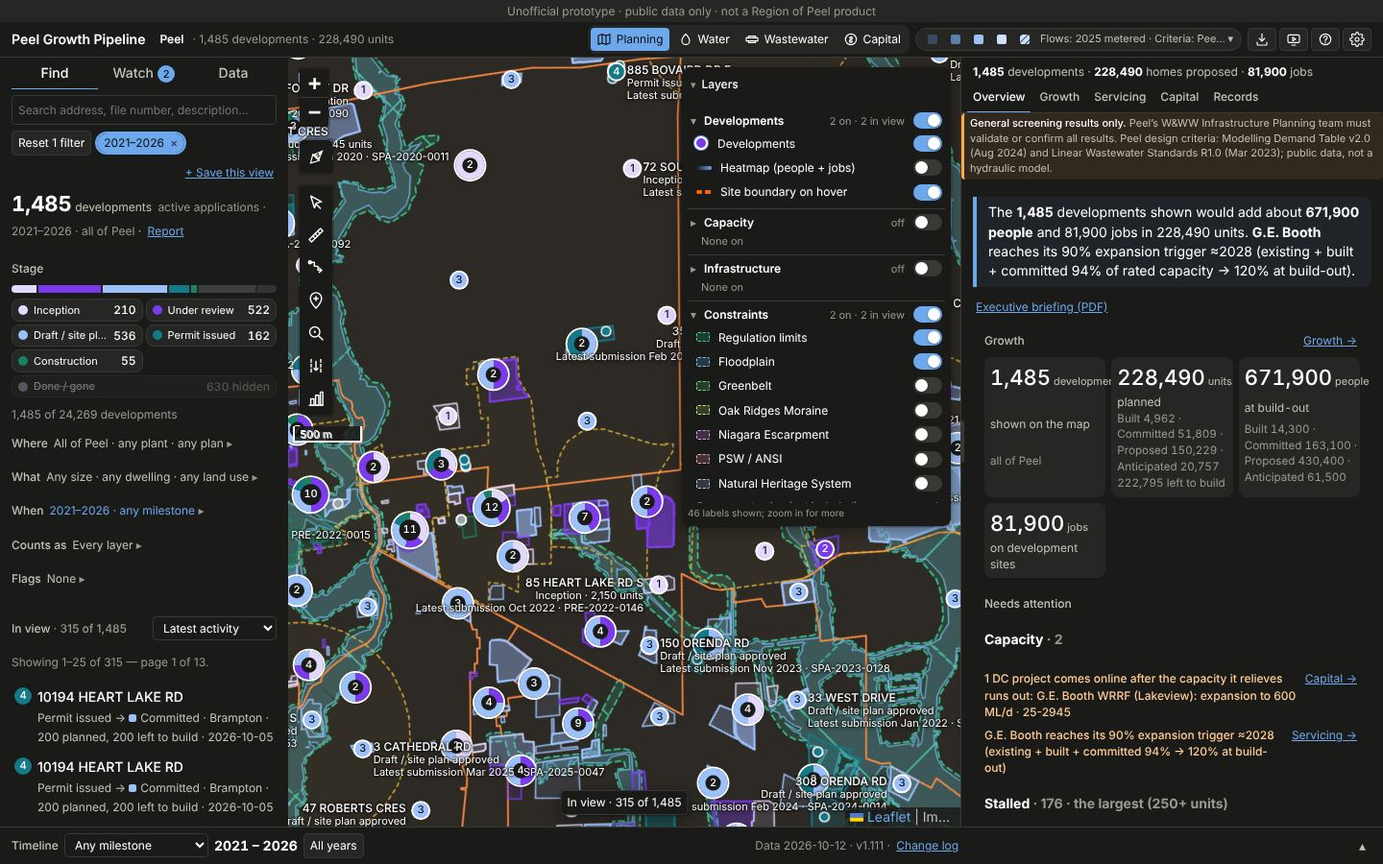
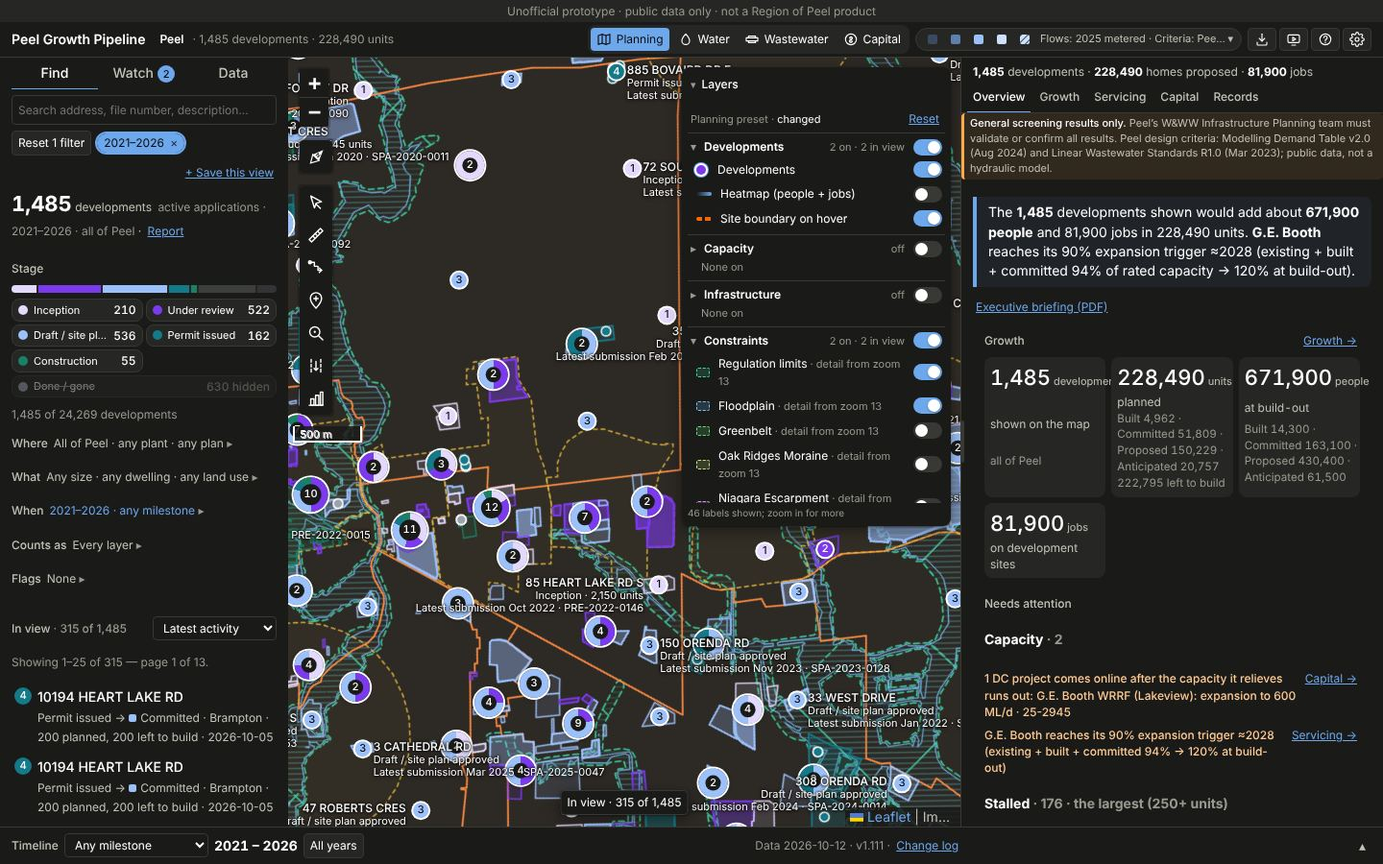
Stage 3 to the Map controls board: zoom stated on each layer, view preset with Reset, DC works marked draft; constraint hover and click at the map level; screenshots retaken
Claude-Session: https://claude.ai/code/session_01E9zDvm6xW3ynJ788gjwVZS

diff --git a/js/layer-groups.js b/js/layer-groups.js
@@ -28,12 +28,16 @@
   const GROUPS = [
     { key: 'devs', label: 'Developments', primary: ['devs'], layers: [['devs', 'Developments', 'devs-toggle', 'dev', null], ['heat', 'Heatmap (people + jobs)', 'map-show', 'heat', null], ['hov', 'Site boundary on hover', 'hover-boundary', 'dash', '--select']] },
     { key: 'cap', label: 'Capacity', primary: ['cap'], layers: [['cap', 'Capacity colours', 'map-capacity', 'cap', null], ['pz', 'Pressure zones', 'pressure-zone', 'svc-pz', null], ['bk', 'Wastewater blocks', 'blocks', 'block', null], ['dr', 'Drainage areas', 'drainage-area', 'svc-dr', null]] },
-    { key: 'infra', label: 'Infrastructure', primary: ['ex-water', 'ex-sanitary'], layers: [['ex-water', 'Existing watermains', 'existing-pipes', 'line', '--pipe-water'], ['ex-sanitary', 'Existing sanitary sewers', 'existing-pipes', 'line', '--pipe-sanitary'], ['ex-storm', 'Existing storm sewers', 'existing-pipes', 'line', '--pipe-storm'], ['wf', 'Water facilities', 'water-facilities', 'wf', null], ['dcw', 'Planned DC works', 'dc-works', 'line', '--dc-ww-main'], ['gas', 'Gas pipelines (approximate)', 'cx-gas', 'dash', '--cx-gas'], ['hydro', 'Hydro lines (approximate)', 'cx-hydro', 'line', '--cx-hydro']], sub: { gas: 'Other utilities' } },
+    { key: 'infra', label: 'Infrastructure', primary: ['ex-water', 'ex-sanitary'], layers: [['ex-water', 'Existing watermains', 'existing-pipes', 'line', '--pipe-water'], ['ex-sanitary', 'Existing sanitary sewers', 'existing-pipes', 'line', '--pipe-sanitary'], ['ex-storm', 'Existing storm sewers', 'existing-pipes', 'line', '--pipe-storm'], ['wf', 'Water facilities', 'water-facilities', 'wf', null], ['dcw', 'Planned DC works · 2026 draft', 'dc-works', 'line', '--dc-ww-main'], ['gas', 'Gas pipelines (approximate)', 'cx-gas', 'dash', '--cx-gas'], ['hydro', 'Hydro lines (approximate)', 'cx-hydro', 'line', '--cx-hydro']], sub: { gas: 'Other utilities' } },
     { key: 'cx', label: 'Constraints', primary: ['reg', 'flood'], layers: [['reg', 'Regulation limits', 'cx-reg', 'area', '--cx-reg'], ['flood', 'Floodplain', 'cx-flood', 'area', '--cx-flood'], ['greenbelt', 'Greenbelt', 'cx-greenbelt', 'area', '--cx-greenbelt'], ['orm', 'Oak Ridges Moraine', 'cx-orm', 'area', '--cx-orm'], ['nep', 'Niagara Escarpment', 'cx-nep', 'area', '--cx-nep'], ['natural', 'PSW / ANSI', 'cx-natural', 'area', '--cx-natural'], ['nhs', 'Natural Heritage System', 'cx-nhs', 'area', '--cx-nhs'], ['source', 'Source protection (not included)', 'site-constraints', 'none', null], ['water', 'Watercourses', 'cx-water', 'line', '--cx-water']], disabled: { source: 'Not included in this app: see the CTC Source Protection Region maps' } },
     { key: 'plan', label: 'Planning context', primary: ['sp', 'mtsa'], layers: [['sp', 'Secondary plans / character areas', 'secondary-plans', 'dash', '--area-sp'], ['pr', 'Precincts', 'secondary-plans', 'dash', '--area-pr'], ['mtsa', 'MTSAs', 'mtsa', 'dash', '--area-mtsa'], ['da', '2021 census areas', 'da-layer', 'da', null]] },
     { key: 'base', label: 'Base map', primary: [], layers: [['hill', 'Lidar hillshade', 'hillshade', 'area', '--text-muted']] },
   ];
-  const LAYER = new Map(GROUPS.flatMap(g => g.layers.map(([key, label, info, sw, color]) => [key, { key, label, info, sw, color, group: g.key, disabled: (g.disabled || {})[key] || null }])));
+  // The zoom each layer shows from, stated on the layer (SPEC §4: "Existing pipes · from zoom 15").
+  // Constraint areas show everywhere (a coarse overview), in detail from zoom 13.
+  const ZOOM = { 'ex-water': [15], 'ex-sanitary': [15], 'ex-storm': [15], gas: [11], hydro: [11], water: [12], hill: [11], reg: [13, 'detail'], flood: [13, 'detail'], greenbelt: [13, 'detail'], orm: [13, 'detail'], nep: [13, 'detail'], natural: [13, 'detail'], nhs: [13, 'detail'] };
+  const zoomText = k => { const z = ZOOM[k]; return z ? (z[1] ? `detail from zoom ${z[0]}` : `from zoom ${z[0]}`) : ''; };
+  const LAYER = new Map(GROUPS.flatMap(g => g.layers.map(([key, label, info, sw, color]) => [key, { key, label, info, sw, color, group: g.key, disabled: (g.disabled || {})[key] || null, zoom: ZOOM[key] ? ZOOM[key][0] : null, zoomText: zoomText(key) }])));
   const KEYS = [...LAYER.keys()];
   const groupOf = k => (LAYER.get(k) || {}).group || null;
 
@@ -98,14 +102,17 @@
   // ---- The panel ----------------------------------------------------------------------------------------
   const esc = s => String(s == null ? '' : s).replace(/[&<>"']/g, c => ({ '&': '&amp;', '<': '&lt;', '>': '&gt;', '"': '&quot;', "'": '&#39;' }[c]));
   // swatch(layer) → HTML; extra[groupKey] → HTML after the group's switches (selects, notes).
-  function panelHTML({ on, open, inView, swatch = () => '', extra = {} }) {
-    return GROUPS.map(g => {
+  // The view's preset, as the board draws it: "Wastewater preset · Reset" (changed or not).
+  const presetLine = (viewLabel, changed) => `<div class="lg-preset" id="lg-preset"><span>${esc(viewLabel)} preset${changed ? ' · <em>changed</em>' : ''}</span>${changed ? '<button type="button" class="btn small link" data-lg-reset>Reset</button>' : ''}</div>`;
+  const sameSet = (a, b) => a.size === b.size && [...a].every(k => b.has(k));
+  function panelHTML({ on, open, inView, swatch = () => '', extra = {}, view = null }) {
+    return (view ? presetLine(view.label, !sameSet(on, presetFor(view.key))) : '') + GROUPS.map(g => {
       const isOpen = open.has(g.key), gOn = groupOn(g, on);
       const rows = g.layers.map(([k]) => {
         const L0 = LAYER.get(k), sub = (g.sub || {})[k];
         const row = L0.disabled
           ? `<div class="mo-sw lg-off" data-info="${esc(L0.info)}" title="${esc(L0.disabled)}"><span class="mo-sw-l">${esc(L0.label)}</span><small class="muted">n/a</small></div>`
-          : `<label class="mo-sw" data-info="${esc(L0.info)}"><span class="mo-sw-l">${swatch(L0)}${esc(L0.label)}</span><input type="checkbox" role="switch" id="lyr-${k}" data-lyr="${k}"${on.has(k) ? ' checked' : ''}><i class="mo-sw-t" aria-hidden="true"></i></label>`;
+          : `<label class="mo-sw" data-info="${esc(L0.info)}"${L0.zoom ? ` data-minz="${L0.zoom}"` : ''}><span class="mo-sw-l">${swatch(L0)}<span>${esc(L0.label)}${L0.zoomText ? `<small class="lg-z"> · ${esc(L0.zoomText)}</small>` : ''}</span></span><input type="checkbox" role="switch" id="lyr-${k}" data-lyr="${k}"${on.has(k) ? ' checked' : ''}><i class="mo-sw-t" aria-hidden="true"></i></label>`;
         return `${sub ? `<div class="lg-sub">${esc(sub)}</div>` : ''}${row}`;
       }).join('');
       return `<section class="lg-grp${isOpen ? ' open' : ''}" data-grp="${g.key}">
@@ -116,7 +123,7 @@
     }).join('');
   }
 
-  const pure = { Z, DRAW_ORDER, CX_FILL_MAX, GROUPS, LAYER, KEYS, groupOf, PRESETS, presetFor, encode, decode, fromLegacy, headerText, summaryText, groupOn, groupToggle, panelHTML };
+  const pure = { Z, DRAW_ORDER, CX_FILL_MAX, GROUPS, LAYER, KEYS, ZOOM, groupOf, PRESETS, presetFor, encode, decode, fromLegacy, headerText, summaryText, groupOn, groupToggle, panelHTML, presetLine, sameSet };
   if (typeof module !== 'undefined' && module.exports) { module.exports = pure; return; }
 
   // ---- Browser: each layer through the module that owns it ------------------------------------------
@@ -183,6 +190,10 @@
     const host = document.querySelector('.lg-groups'); if (!host) return;
     const on = onSet(), iv = inViewSet(on);
     for (const k of KEYS) { const c = document.getElementById(`lyr-${k}`); if (c) c.checked = on.has(k); }
+    const map = W.PeelMapCore && W.PeelMapCore.map, z = map ? map.getZoom() : 99;
+    host.querySelectorAll('[data-minz]').forEach(l => { const below = z < +l.dataset.minz && !LAYER.get(l.querySelector('[data-lyr]').dataset.lyr).zoomText.startsWith('detail'); l.classList.toggle('lg-dim', below); l.title = below ? `Zoom in to see it (from zoom ${l.dataset.minz})` : ''; });
+    const pl = document.getElementById('lg-preset');
+    if (pl && MA() && MM()) { const v = MA().currentView(), vl = (MM().MAP_VIEWS.find(x => x[0] === v) || [v, v])[1]; pl.outerHTML = presetLine(vl, !sameSet(on, presetFor(v))); }
     for (const g of GROUPS) {
       const sec = host.querySelector(`[data-grp="${g.key}"]`); if (!sec) continue;
       const isOpen = openGroups.has(g.key);
@@ -196,7 +207,8 @@
   }
   function bind(el) {
     el.addEventListener('click', e => {
-      const t = e.target.closest('[data-grp-toggle]'); if (t) { e.preventDefault(); setOpen(t.dataset.grpToggle, !openGroups.has(t.dataset.grpToggle)); }
+      const t = e.target.closest('[data-grp-toggle]'); if (t) { e.preventDefault(); setOpen(t.dataset.grpToggle, !openGroups.has(t.dataset.grpToggle)); return; }
+      if (e.target.closest('[data-lg-reset]') && MA() && MA().resetView) MA().resetView();
     });
     el.addEventListener('change', e => {
       const gs = e.target.closest('[data-grp-switch]');

diff --git a/js/constraints.js b/js/constraints.js
@@ -98,17 +98,19 @@
     });
   }
   // coarse: the overview (low zoom): thin outlines, no dashes, so many small polygons stay readable.
+  // What is drawn, for the map-level hover card and click (below): each map pane draws on its own
+  // canvas and the top one takes the pointer, so constraint shapes are not interactive themselves.
+  let hits = [];
   function draw(key, id, feats, edges, coarse) {
     const L0 = LAYERS[key], col = token(L0.color) || token('--nodata'), w = coarse ? 0.7 : L0.weight, dash = coarse ? null : L0.dash;
     for (const f of feats) {
       if (L0.keep && !L0.keep(f.label)) continue;
       drawn[key] = (drawn[key] || 0) + 1;
-      // The same hover card as every other feature (SPEC §3): kind, name, what it is; click opens its card.
-      const tip = window.PeelUtil.hoverCard({ kind: `${L0.label} · screening`, name: f.label[0] || L0.label, sub: f.label[1] || '', open: 'its card (owner, as-of date, source)' });
-      const shapes = f.polys
-        ? [L.polygon(f.polys[0].map(r => r.map(([x, y]) => [y, x])), { renderer, stroke: !edges, color: col, weight: w, dashArray: dash, fillColor: hatch(col, BACK.has(key)), fillOpacity: coarse ? 0.25 : 0.22, opacity: coarse ? 0.6 : 0.9 })]
-        : (f.lines || []).length ? [L.polyline(f.lines.map(l => l.map(([x, y]) => [y, x])), { renderer, color: col, weight: L0.weight, dashArray: L0.dash, opacity: 0.9 })] : [];
-      for (const s of shapes) s.bindTooltip(tip, { sticky: true, className: 'pt' }).on('click', e => { L.DomEvent.stop(e); featureClick(id, f.label); }).addTo(layer);
+      if (f.polys) L.polygon(f.polys[0].map(r => r.map(([x, y]) => [y, x])), { renderer, interactive: false, stroke: !edges, color: col, weight: w, dashArray: dash, fillColor: hatch(col, BACK.has(key)), fillOpacity: coarse ? 0.25 : 0.22, opacity: coarse ? 0.6 : 0.9 }).addTo(layer);
+      else if ((f.lines || []).length) L.polyline(f.lines.map(l => l.map(([x, y]) => [y, x])), { renderer, interactive: false, color: col, weight: L0.weight, dashArray: L0.dash, opacity: 0.9 }).addTo(layer);
+      else continue;
+      const pts = (f.polys ? f.polys[0] : f.lines).flat();
+      hits.push({ key, id, label: f.label, rings: f.polys ? f.polys[0] : null, lines: f.lines || null, bb: [Math.min(...pts.map(p => p[0])), Math.min(...pts.map(p => p[1])), Math.max(...pts.map(p => p[0])), Math.max(...pts.map(p => p[1]))] });
     }
     for (const g of edges || []) {
       if (L0.keep && !L0.keep(g.label)) continue;
@@ -117,7 +119,7 @@
   }
   async function render() {
     const my = ++seq;
-    layer.clearLayers();
+    layer.clearLayers(); hits = []; hideTip();
     for (const k of Object.keys(drawn)) delete drawn[k];
     const keys = ORDER.filter(k => on[k]);
     const note = $('#cx-note');
@@ -152,11 +154,47 @@
     if (my === seq && note) note.textContent = [...new Set(notes)].join(' · ');
     if (my === seq && root.PeelLayerGroups) root.PeelLayerGroups.sync();
   }
+  // ---- Hover card and click, at the map level (SPEC §3: one hover card; click opens the right panel) ----
+  // Lines are hit within ~6 px; the top-most (last drawn) feature wins.
+  function hitAt(latlng) {
+    if (!hits.length) return null;
+    const x = latlng.lng, y = latlng.lat, tolM = 6 * 40075016 * Math.cos(y * Math.PI / 180) / 2 ** (map.getZoom() + 8), tolD = tolM / 111320;
+    for (let i = hits.length - 1; i >= 0; i--) {
+      const h = hits[i], b = h.bb;
+      if (x < b[0] - tolD * 2 || x > b[2] + tolD * 2 || y < b[1] - tolD || y > b[3] + tolD) continue;
+      if (h.rings ? G.pointInRings([x, y], h.rings) : h.lines.some(l => G.distToLine([x, y], l) <= tolM)) return h;
+    }
+    return null;
+  }
+  const toolOn = () => !!(root.PeelMeasure && root.PeelMeasure.tool && root.PeelMeasure.tool.mode);
+  let tip = null, tipFor = null, moveT = 0;
+  function hideTip() { if (tip) { map.closeTooltip(tip); tip = null; tipFor = null; } map.getContainer().classList.remove('cx-hover'); }
+  map.on('mousemove', e => {
+    const now = Date.now(); if (now - moveT < 60) return; moveT = now;
+    const h = !toolOn() && hitAt(e.latlng);
+    if (!h) { hideTip(); return; }
+    const L0 = LAYERS[h.key];
+    if (tipFor !== h) {
+      // The same hover card as every other feature: kind, name, what it is; click opens its card.
+      const html = window.PeelUtil.hoverCard({ kind: `${L0.label} · screening`, name: h.label[0] || L0.label, sub: h.label[1] || '', open: 'its card (owner, as-of date, source)' });
+      if (!tip) tip = L.tooltip({ className: 'pt', direction: 'top', offset: [0, -10] });
+      tip.setContent(html); tipFor = h;
+    }
+    tip.setLatLng(e.latlng); if (!map.hasLayer(tip)) map.openTooltip(tip);
+    map.getContainer().classList.add('cx-hover');
+  });
+  map.on('mouseout', hideTip);
+  map.on('click', e => { if (toolOn()) return; const h = hitAt(e.latlng); if (h) { hideTip(); featureClick(h.id, h.label); } });
+
   let timer = null;
   map.on('moveend', () => { if (Object.values(on).some(Boolean)) { clearTimeout(timer); timer = setTimeout(render, 150); } });
 
+  const anyOn = () => Object.values(on).some(Boolean);
   function setOn(o) {
+    const was = anyOn();
     for (const k of Object.keys(o)) if (k in on) on[k] = !!o[k];
+    // Planning areas are context outlines while constraints are on (they would take the taps).
+    if (was !== anyOn() && root.PeelPlanAreas && root.PeelPlanAreas.renderPlanAreas) root.PeelPlanAreas.renderPlanAreas();
     store.set('cxOn', on);
     render();
     if (MA() && MA().renderLegend) MA().renderLegend();
@@ -193,7 +231,7 @@
     showLayer(b.dataset.cxShow, p && p.lat != null ? [p.lat, p.lng] : null);
   });
   if (Object.values(on).some(Boolean)) map.whenReady(() => setTimeout(render, 0));
-  const api = { LAYERS, ORDER, getOn: () => ({ ...on }), drawnCount: k => drawn[k] || 0, setOn, showLayer, render, watercoursesIn, watercourseSource, legendHTML };
+  const api = { LAYERS, ORDER, getOn: () => ({ ...on }), anyOn, hitAt, drawnCount: k => drawn[k] || 0, setOn, showLayer, render, watercoursesIn, watercourseSource, legendHTML };
   if (typeof module !== 'undefined' && module.exports) module.exports = api;
   else root.PeelConstraints = api;
 })(typeof window !== 'undefined' ? window : globalThis);

diff --git a/tests/layer-groups.test.js b/tests/layer-groups.test.js
@@ -116,7 +116,7 @@ test('group header, summary and switch', () => {
 function env(over = {}) {
   const stored = {};
   const calls = [];
-  const map = { createPane: () => ({ style: {} }), getPane: () => null, getZoom: () => 14, getBounds: () => ({ getWest: () => -79.705, getEast: () => -79.695, getSouth: () => 43.695, getNorth: () => 43.705 }), on() {}, whenReady(fn) { fn(); } };
+  const map = { createPane: () => ({ style: {} }), getPane: () => null, getContainer: () => ({ classList: { add() {}, remove() {} } }), closeTooltip() {}, getZoom: () => 14, getBounds: () => ({ getWest: () => -79.705, getEast: () => -79.695, getSouth: () => 43.695, getNorth: () => 43.705 }), on() {}, whenReady(fn) { fn(); } };
   const chain = () => ({ addTo() { return this; }, bindTooltip() { return this; }, on() { return this; }, clearLayers() {} });
   const window = {
     PeelUtil: { $: () => null, esc: s => String(s), token: () => '#000', store: { get: (k, d) => (k in stored ? stored[k] : d), set: (k, v) => { stored[k] = v; } } },
@@ -169,4 +169,22 @@ test('the Layers panel is built from the groups and keeps the panel off the sele
   assert.match(src('js/devscope.js'), /_foldLayers/);
   const html = src('index.html');
   assert.ok(html.indexOf('js/layer-groups.js') < html.indexOf('js/map-core.js'), 'loads before the modules that make panes');
+});
+
+test('follows the Map controls board: zoom stated on the layer, the view preset with Reset, DC works marked draft', () => {
+  // SPEC §4: "Existing pipes · from zoom 15"; the thresholds match the modules that draw them.
+  assert.equal(LG.LAYER.get('ex-water').zoomText, 'from zoom 15');
+  assert.match(src('js/map-markers.js'), /const EXIST_ZOOM = 15;/);
+  const cx = src('js/constraints.js');
+  for (const k of ['gas', 'hydro', 'water']) assert.equal(LG.LAYER.get(k).zoom, +cx.match(new RegExp(`${k}: \\{[^\\n]*minZoom: (\\d+)`))[1], k);
+  assert.equal(LG.LAYER.get('hill').zoom, 11);
+  assert.equal(LG.LAYER.get('reg').zoomText, 'detail from zoom 13');
+  assert.match(cx, /const TILE_ZOOM = 13/);
+  const html = LG.panelHTML({ on: new Set(['devs', 'hov', 'sp', 'mtsa']), open: new Set(['infra']), inView: null, view: { key: 'planning', label: 'Planning' } });
+  assert.match(html, /^<div class="lg-preset" id="lg-preset"><span>Planning preset<\/span><\/div>/);
+  assert.match(html, /Existing watermains<small class="lg-z"> · from zoom 15<\/small>/);
+  assert.match(html, /Planned DC works · 2026 draft/);
+  const changed = LG.panelHTML({ on: new Set(['devs', 'reg']), open: new Set(), inView: null, view: { key: 'planning', label: 'Planning' } });
+  assert.match(changed, /Planning preset · <em>changed<\/em><\/span><button type="button" class="btn small link" data-lg-reset>Reset<\/button>/);
+  assert.match(src('js/map-analysis.js'), /function resetView\(\) \{ const v = currentView\(\); store\.set\(`mapView-\$\{v\}`, null\); applyViewSettings\(v, null\); \}/);
 });

diff --git a/js/plan-areas.js b/js/plan-areas.js
@@ -129,13 +129,18 @@
   function renderPlanAreas() {
     planLayer.clearLayers();
     if (!App().state.areas) return;
+    // While constraint layers are on, the outlines are context only: the constraints take the
+    // hover card and the tap (each pane draws on its own canvas; the top one takes the pointer).
+    const tappable = !(window.PeelConstraints && window.PeelConstraints.anyOn && window.PeelConstraints.anyOn());
     for (const [on, list, colorName, kind] of [[MM().areaOn.sp, App().state.areas.secondaryPlans, '--area-sp', 'sp'], [MM().areaOn.pr, App().state.areas.precincts || [], '--area-pr', 'pr'], [MM().areaOn.mtsa, App().state.areas.mtsas, '--area-mtsa', 'mtsa']]) {
       if (!on) continue;
       for (const a of list) {
         if (App().state.muni && a.municipality !== App().state.muni) continue;
         const sel = (kind === 'mtsa' ? App().state.mtsa : App().state.sp).includes(a.id);
-        L.polygon(a.rings.map(r => r.map(([x, y]) => [y, x])), { renderer: planRenderer, color: token(colorName), weight: sel ? 3 : 1.5, opacity: 0.9, dashArray: kind === 'mtsa' ? '4 4' : null, fill: true, fillColor: token(colorName), fillOpacity: sel ? 0.12 : 0.03 })
-          .bindTooltip(`<strong>${esc(a.name)}</strong><br>${esc(a.municipality || '')} ${kind === 'mtsa' ? 'MTSA' : kind === 'pr' ? 'precinct' : a.municipality === 'Mississauga' ? 'character area' : 'secondary plan'}<br><span class="muted">Tap to ${sel ? 'clear the filter' : 'filter to it'}</span>`, { sticky: true, className: 'pt' })
+        const poly = L.polygon(a.rings.map(r => r.map(([x, y]) => [y, x])), { renderer: planRenderer, interactive: tappable, color: token(colorName), weight: sel ? 3 : 1.5, opacity: 0.9, dashArray: kind === 'mtsa' ? '4 4' : null, fill: true, fillColor: token(colorName), fillOpacity: sel ? 0.12 : 0.03 });
+        // Precincts are outlines for context (developments are tagged by plan and MTSA, not precinct).
+        if (!tappable || kind === 'pr') { poly.options.interactive = false; poly.addTo(planLayer); continue; }
+        poly.bindTooltip(window.PeelUtil.hoverCard({ kind: kind === 'mtsa' ? 'MTSA' : kind === 'pr' ? 'Precinct' : a.municipality === 'Mississauga' ? 'Character area' : 'Secondary plan', name: a.name, sub: a.municipality || '', open: sel ? 'clear the filter' : 'filter to it' }), { sticky: true, className: 'pt' })
           .on('click', ev => { L.DomEvent.stop(ev); togglePlanArea(kind, a.id); }).addTo(planLayer);
       }
     }

diff --git a/css/app.css b/css/app.css
@@ -1731,7 +1731,7 @@ details.sub-sect > summary .sect-sum { margin-left: auto; }
 .map-opts details.mo-more > summary .mo-sum.on { color: var(--accent); font-weight: 500; }
 .mo-devs-off { display: flex; flex-wrap: wrap; align-items: center; gap: var(--space-1) var(--space-2); padding: var(--space-2) var(--space-2); border-radius: 4px; background: color-mix(in srgb, var(--cap-tight) 22%, var(--surface-1)); color: var(--text-primary); font-size: var(--fs-2); }
 .mo-devs-off[hidden] { display: none; }
-.mo-devs-off .btn { background: var(--on-tint); }
+.mo-devs-off .btn { background: var(--on-tint); color: var(--ink-fixed); border-color: transparent; }
 @media (max-width: 700px) {
   .map-opts details.mo-panel[open] { max-height: calc(var(--map-h, 640px) * .6); overflow-y: auto; overscroll-behavior: contain; }
 }
@@ -1802,6 +1802,11 @@ details.sub-sect > summary .sect-sum { margin-left: auto; }
 /* Layer groups (js/layer-groups.js): six accordion groups, each with a group switch, a count of
    layers on / in view, and a one-line summary when folded. */
 .map-opts .lg-groups { gap: 0; }
+.leaflet-container.cx-hover { cursor: pointer; }
+.map-opts .lg-preset { display: flex; justify-content: space-between; align-items: baseline; gap: var(--space-2); font-size: var(--fs-1); color: var(--text-muted); padding: 0 var(--space-1) var(--space-1); }
+.map-opts .lg-preset em { font-style: normal; color: var(--text-primary); }
+.map-opts .lg-z { color: var(--text-muted); font-size: var(--fs-1); font-weight: 400; }
+.map-opts label.mo-sw.lg-dim .mo-sw-l { opacity: .55; }
 .map-opts .lg-grp { border-top: 1px solid var(--border); padding: 2px 0; }
 .map-opts .lg-grp:first-child { border-top: 0; }
 .map-opts .lg-gh { display: flex; align-items: center; gap: var(--space-1); }

diff --git a/tests/constraints.test.js b/tests/constraints.test.js
@@ -214,9 +214,13 @@ test('nothing in the app loads constraint data until a layer is switched on', ()
 
 test('follows the redesign: one hover card, hatched areas, the stated zoom thresholds', () => {
   const s = fs.readFileSync(path.join(ROOT, 'js/constraints.js'), 'utf8');
-  // SPEC §3: one hover card for every feature; click opens the right panel.
+  // SPEC §3: one hover card for every feature; click opens the right panel. Hit-tested at the map
+  // level, so a pane drawn above (planning areas, zones) does not swallow the pointer.
   assert.match(s, /window\.PeelUtil\.hoverCard\(\{ kind: `\$\{L0\.label\} · screening`/);
   assert.match(s, /SS\(\)\.openResult\(/);
+  assert.match(s, /map\.on\('click', e => \{ if \(toolOn\(\)\) return; const h = hitAt\(e\.latlng\);/);
+  assert.match(s, /interactive: false, stroke: !edges/);
+  assert.match(fs.readFileSync(path.join(ROOT, 'js/plan-areas.js'), 'utf8'), /const tappable = !\(window\.PeelConstraints && window\.PeelConstraints\.anyOn/);
   // Two ladders: constraint areas are hatched, never a solid colour that reads as phase / capacity.
   assert.match(s, /fillColor: hatch\(col, BACK\.has\(key\)\)/);
   assert.doesNotMatch(s, /fillColor: col\b/);

diff --git a/js/map-markers.js b/js/map-markers.js
@@ -112,7 +112,7 @@
         <div class="mo-area-on" id="mo-area-on" hidden></div>
         <details class="mo-panel"${store.get('moPanelOpen', !small) ? ' open' : ''}><summary class="mo-panel-h"><span>Layers</span><span class="mo-psum" id="mo-psum"></span></summary>
         <div class="mo-layers lg-groups" role="group" aria-label="Map layers" data-info="map-layers">
-          ${LG().panelHTML({ on: initialOn(), open: LG().getOpen(), inView: null, swatch: layerSwatch, extra: {
+          ${LG().panelHTML({ on: initialOn(), open: LG().getOpen(), inView: null, swatch: layerSwatch, view: (() => { const v = store.get('mapView', 'planning'); const m = MAP_VIEWS.find(x => x[0] === (v === 'servicing' ? 'water' : v)) || MAP_VIEWS[0]; return { key: m[0], label: m[1] }; })(), extra: {
             infra: '<small id="exist-note" data-info="existing-pipes"></small>',
             cx: '<small class="cx-note" id="cx-note"></small>',
             base: `<label class="mo-sel" data-info="opt-basemap"><span>Background</span><select id="opt-basemap">${opts(MC().BASEMAPS, MC().getBasemap())}</select></label>

diff --git a/js/map-analysis.js b/js/map-analysis.js
@@ -107,6 +107,9 @@
     renderCapLayer(); renderLegend(); syncMapOpts(); ML().updateLabels(); Sh().viewLink.write();
   }
 
+  // "Reset" in the Layers panel: the current view back to its preset (its memory cleared).
+  function resetView() { const v = currentView(); store.set(`mapView-${v}`, null); applyViewSettings(v, null); }
+
   // Saved views: a name for the filters, map position, view and layers (kept in this browser).
   const savedViews = () => store.get('savedViews', []) || [];
   // Saved views as one-tap preset chips at the top of the filter panel (the Layers panel
@@ -370,7 +373,7 @@
   // the developments adding flow since the census, ranked by their peak flow.
 
   const api = {
-    VIEW_PRESETS, LG_EXTRA,
+    VIEW_PRESETS, LG_EXTRA, resetView,
     setMapStyle, setDcOn, setExistOn, currentView, syncMapOpts, setMapView,
     getCapYear() { return capYear; },
     setCapYear(v) { capYear = v; },

diff --git a/docs/sources-constraints-lidar.md b/docs/sources-constraints-lidar.md
@@ -283,3 +283,45 @@ development still folds the Layers panel, so it doesn't cover the selection.
    - other layers count as in view when on.
 4. **"Site boundaries":** these are drawn with Developments whenever it is on. The switch in the group
    is the boundary on hover, the one setting the app has.
+
+## Design alignment (redesign spec and design audit)
+
+Stages 2–3 were checked against `docs/redesign/SPEC.md`, its Map controls board
+(`boards/MapControls.dc.html`) and `docs/design-audit.md`, and brought into line.
+
+- **One destination for clicks (SPEC §0.3, §3):**
+  - A constraint feature opens in the right panel as a result scope, and the trail updates.
+  - It uses **the same hover card** as plants, zones, DC works and files: kind, name, what it is,
+    "Click: …".
+  - Hover and click are hit-tested at the map level. Each pane draws on its own canvas and the top
+    one takes the pointer, so planning areas or zones drawn above no longer swallow it.
+  - While a constraint layer is on, planning areas are context outlines; filtering to a plan from
+    the left panel still works.
+- **Two ladders kept apart (SPEC §0.1) and the Stage 3 colours:**
+  - Constraint areas are **hatched**, not filled, so they never read as a phase, layer or capacity
+    colour. Hazards hatch one way; plans and the heritage system hatch the other.
+  - Swatches in the panel and legend match.
+- **Every number says its basis once (SPEC §0.5):** the Site checklist and the Land under
+  constraints card each end with one basis line (layers, grid, built date, screening) instead of a
+  separate disclaimer paragraph.
+- **Map controls board (SPEC §4):**
+  - Zoom thresholds are stated on each layer: "Existing watermains · from zoom 15", "Watercourses ·
+    from zoom 12", "Gas pipelines · from zoom 11", "Lidar hillshade · from zoom 11", and for
+    constraint areas "detail from zoom 13".
+  - A layer below its zoom is dimmed, with "Zoom in to see it".
+  - Gas and hydro are back to the spec's zoom 11.
+  - The panel opens with the view's preset ("Planning preset", or "· changed · Reset").
+  - "Planned DC works · 2026 draft" carries its basis.
+- **Five tabs at every scope (SPEC §0.4):**
+  - The checklist sits in Development › Site.
+  - The area card is in the Overview at municipality, plan, MTSA, zone and block scope.
+  - The feature card is a result scope; no new tab is added.
+- **Design audit:**
+  - Text at least 11 px (`--fs-1`).
+  - Screening wording on every constraint line, with no determinations.
+  - Constraints stay out of the Regional servicing verdict (jurisdiction: CA and province).
+- **Kept from the Stage 3 brief, not the board:** the brief's **six** groups replace the board's three
+  (Growth / Servicing / Capital & constraints).
+
+Also fixed: the "Show developments" button in the "Developments are switched off" note was white
+on white.
